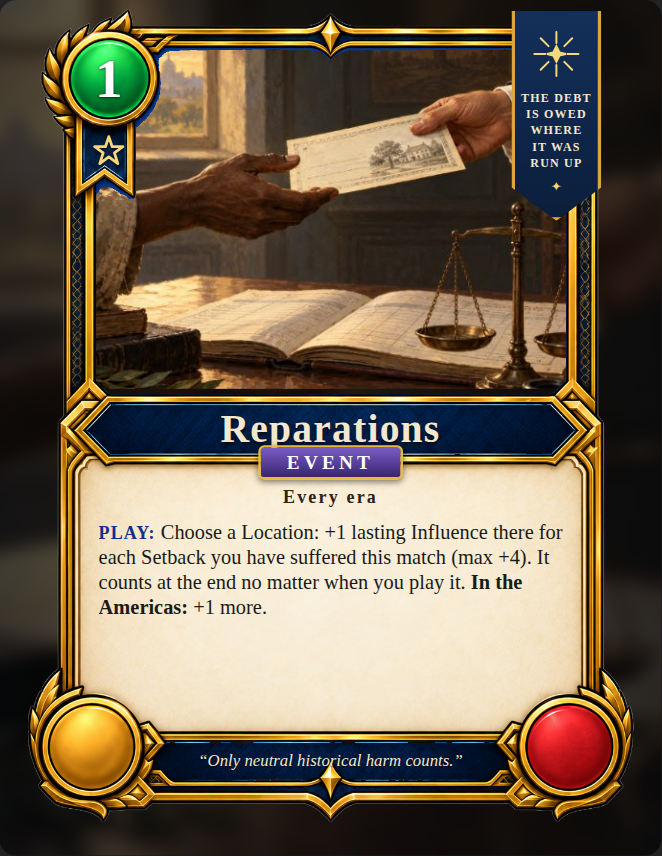
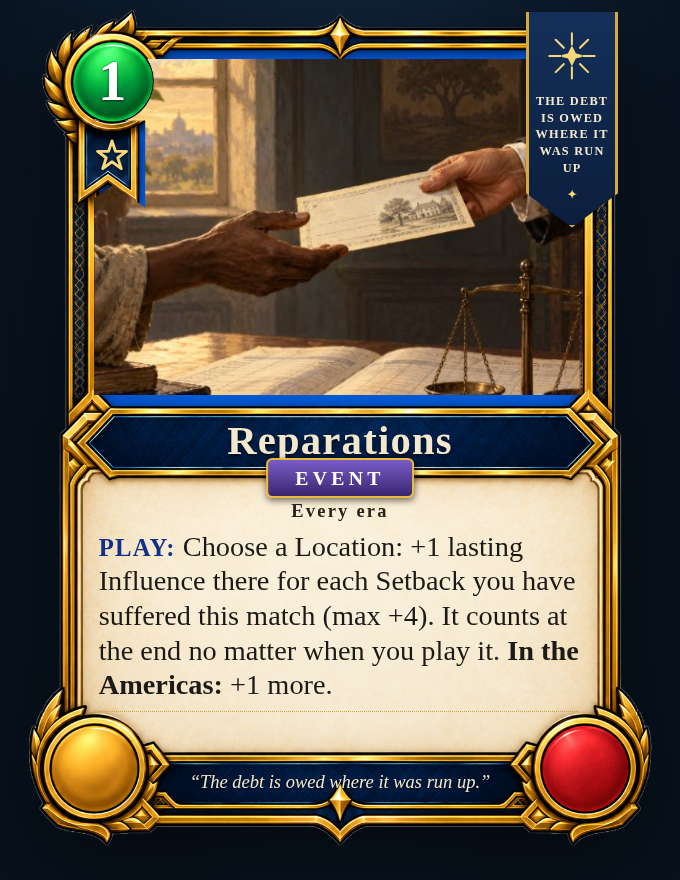
docs: card template sketch on the exact PNG, live cards with scrolling rules
The frame is the supplied PNG untouched (transparent outside, blue window
inside); the portrait sits over the window and the cost medallion and its
ribbon ride above the portrait as masked passes of the same PNG. The mock is
one live layout in cqw units with the rules at reading size, scrolling when
they run long. Renders and spec updated; the keyed frame is gone.

Claude-Session: https://claude.ai/code/session_01CdCWBBELLp3cWMWqqhgQtC

diff --git a/docs/card-template/mock.html b/docs/card-template/mock.html
@@ -1,80 +1,123 @@
-<!doctype html>
-<meta charset="utf-8">
+<title>Universal Card Template</title>
 <link rel="stylesheet" href="https://fonts.googleapis.com/css2?family=Cinzel:wght@600;700;800&family=Crimson+Pro:ital,wght@0,500;0,600;0,700;1,500&display=swap">
 <style>
-  body { margin: 0; background: #222; display: flex; gap: 40px; padding: 40px; font-family: 'Crimson Pro', Georgia, serif; }
-  /* The card is laid out at the template's native 1103 x 1426 and scaled for the screenshot. */
-  .card { position: relative; width: 1103px; height: 1426px; overflow: hidden; border-radius: 28px; background: #08131f; color: #1b1a17; }
-  .bleed { position: absolute; inset: -6%; background-size: cover; background-position: center 20%; filter: blur(14px) brightness(0.45) saturate(0.8); }
-  .bleed::after { content: ''; position: absolute; inset: 0; background: radial-gradient(ellipse at 50% 30%, rgba(8,19,31,0) 30%, rgba(8,19,31,0.75) 100%); }
-  .art { position: absolute; left: 140px; top: 82px; width: 818px; height: 566px; background-size: cover; background-position: center 18%; }
-  .frame { position: absolute; inset: 0; width: 1103px; height: 1426px; pointer-events: none; }
-  .num { position: absolute; font-family: 'Cinzel', Georgia, serif; font-weight: 800; color: #fff; text-align: center; transform: translate(-50%, -50%); text-shadow: 0 3px 4px rgba(0,0,0,0.55), 0 0 2px rgba(0,0,0,0.6); }
-  .cost { left: 182px; top: 130px; font-size: 92px; }
-  .inf { left: 152px; top: 1252px; font-size: 100px; }
-  .force { left: 945px; top: 1252px; font-size: 100px; }
-  .kind { position: absolute; left: 182px; top: 252px; transform: translate(-50%, -50%); width: 60px; height: 60px; }
-  .kind svg { width: 100%; height: 100%; fill: none; stroke: #f6d77a; stroke-width: 5; stroke-linejoin: round; stroke-linecap: round; filter: drop-shadow(0 2px 2px rgba(0,0,0,0.6)); }
-  .pennant { position: absolute; right: 100px; top: 18px; width: 150px; height: 350px; background: linear-gradient(180deg, #14305a, #0b1e3c); border: 6px solid #d8a83a; border-top: 0; clip-path: polygon(0 0, 100% 0, 100% 84%, 50% 100%, 0 84%); box-shadow: 0 6px 18px rgba(0,0,0,0.5); display: flex; flex-direction: column; align-items: center; justify-content: flex-start; padding: 24px 10px; box-sizing: border-box; }
-  .pennant .sun { width: 84px; height: 84px; margin: 6px 0 18px; }
-  .pennant .motto { font-family: 'Cinzel', Georgia, serif; font-weight: 700; font-size: 20px; line-height: 1.35; letter-spacing: 0.1em; color: #f3e8cf; text-align: center; }
-  .pennant .dia { color: #f6d77a; font-size: 22px; margin-top: 14px; }
-  .name { position: absolute; left: 150px; right: 150px; top: 676px; height: 77px; display: flex; align-items: center; justify-content: center; font-family: 'Cinzel', Georgia, serif; font-weight: 800; font-size: 66px; letter-spacing: 0.03em; color: #f3e8cf; text-shadow: 0 3px 6px rgba(0,0,0,0.7); white-space: nowrap; }
-  .name.long { font-size: 54px; }
-  .name.xlong { font-size: 44px; }
-  .tag { position: absolute; left: 50%; top: 742px; transform: translateX(-50%); padding: 6px 44px; background: linear-gradient(180deg, #2d63d6, #12308a); border: 4px solid #e9b93a; border-radius: 10px; font-family: 'Cinzel', Georgia, serif; font-weight: 700; font-size: 32px; letter-spacing: 0.22em; color: #fff; box-shadow: 0 4px 10px rgba(0,0,0,0.5); }
-  .era { position: absolute; left: 0; right: 0; top: 812px; text-align: center; font-family: 'Cinzel', Georgia, serif; font-weight: 700; font-size: 30px; letter-spacing: 0.12em; color: #2a2418; }
-  .rules { position: absolute; left: 165px; right: 160px; top: 866px; height: 350px; font-size: 34px; line-height: 1.24; color: #1b1a17; font-weight: 500; overflow: hidden; }
-  .rules .kw { font-family: 'Cinzel', Georgia, serif; font-weight: 800; font-size: 30px; letter-spacing: 0.06em; color: #12308a; }
-  .rules b { font-weight: 700; }
-  .rules .sep { text-align: center; color: #b58a1c; font-size: 26px; margin: 10px 0 8px; position: relative; }
-  .rules .sep::before, .rules .sep::after { content: ''; position: absolute; top: 55%; width: 42%; border-top: 2px solid #c9a53a; }
-  .rules .sep::before { left: 0; } .rules .sep::after { right: 0; }
-  .rules.fit { font-size: 30px; line-height: 1.2; } .rules.fit .kw { font-size: 26px; }
-  .quote { position: absolute; left: 270px; right: 270px; top: 1240px; height: 56px; display: flex; align-items: center; justify-content: center; text-align: center; font-style: italic; font-size: 28px; line-height: 1.15; color: #f3e8cf; text-shadow: 0 2px 3px rgba(0,0,0,0.7); }
-  .card.event .art { background-position: center; }
+  :root { --frame: url("card-template.png"); --bg: #08131f; --panel: #0f1f33; --line: #2a4466; --text: #f1e9d6; --muted: #a9b4c2; --gold: #e9b93a; --gold-2: #f6d77a; --parchment: #f3e8cf; --display: 'Cinzel', 'Trajan Pro', Georgia, serif; --font: 'Crimson Pro', Georgia, serif; }
+  body { margin: 0; background: var(--bg) radial-gradient(ellipse at 50% -10%, #142a44 0%, var(--bg) 60%); color: var(--text); font-family: var(--font); font-size: 18px; line-height: 1.45; padding-block: 28px 64px; padding-inline: clamp(16px, 4vw, 48px); }
+  .wrap { max-width: 1100px; margin: 0 auto; }
+  header { text-align: center; margin-bottom: 18px; }
+  .eyebrow { font-family: var(--display); font-weight: 600; font-size: 12px; letter-spacing: 0.22em; text-transform: uppercase; color: var(--gold); }
+  h1 { font-family: var(--display); font-weight: 800; font-size: clamp(24px, 4vw, 40px); letter-spacing: 0.04em; margin: 6px 0 8px; color: var(--parchment); text-wrap: balance; }
+  header p { max-width: 60ch; margin: 0 auto; color: var(--muted); }
+  .tabs { display: flex; justify-content: center; flex-wrap: wrap; gap: 10px; margin: 18px 0 22px; }
+  .tab { font-family: var(--display); font-weight: 700; font-size: 13px; letter-spacing: 0.14em; text-transform: uppercase; color: var(--parchment); background: var(--panel); border: 1.5px solid var(--line); padding: 10px 18px; cursor: pointer; min-height: 44px; }
+  .tab.on { background: linear-gradient(180deg, #f6d77a, #d7a422 60%, #b4851a); color: #1a1200; border-color: var(--gold-2); }
+  .tab:focus-visible { outline: 2px solid var(--gold-2); outline-offset: 2px; }
+  .stage { display: grid; place-items: center; }
+  .slide { width: min(100%, 680px); filter: drop-shadow(0 30px 50px rgba(0,0,0,0.6)); }
+  section.notes { margin-top: 44px; border-top: 1px solid var(--line); padding-top: 24px; display: grid; gap: 10px; max-width: 70ch; color: var(--muted); }
+  section.notes b { color: var(--parchment); font-weight: 600; }
+  h2 { font-family: var(--display); font-weight: 700; font-size: 16px; letter-spacing: 0.12em; text-transform: uppercase; color: var(--gold-2); margin: 0 0 4px; }
+
+  /* One card = the template's 1103 x 1426 box; every measurement is a percentage of the card's width (cqw), so the
+     same layout holds at hand size and at Codex size. The frame is the designer's PNG, untouched: the portrait sits
+     on top of it, clipped to the blue window. */
+  .card { position: relative; container-type: inline-size; width: 100%; aspect-ratio: 1103 / 1426; font-family: var(--font); color: #1b1a17; }
+  .card > * { position: absolute; }
+  .card .frame { inset: 0; width: 100%; height: 100%; z-index: 2; pointer-events: none; background: var(--frame) center / 100% 100% no-repeat; }
+  /* The cost medallion and its ribbon are painted on the frame over the window, so two more passes of the same PNG,
+     cut to just those shapes (a circle for the medallion, the ribbon's pennant outline), ride above the portrait. */
+  .card .frame-medal, .card .frame-ribbon { inset: 0; width: 100%; height: 100%; z-index: 4; pointer-events: none; background: var(--frame) center / 100% 100% no-repeat; }
+  .card .frame-medal { -webkit-mask: radial-gradient(circle at 16.50cqw 11.79cqw, #000 6.05cqw, transparent 6.15cqw); mask: radial-gradient(circle at 16.50cqw 11.79cqw, #000 6.05cqw, transparent 6.15cqw); }
+  .card .frame-ribbon { clip-path: polygon(11.85cqw 17.60cqw, 21.35cqw 17.60cqw, 21.35cqw 30.40cqw, 16.60cqw 27.10cqw, 11.85cqw 30.40cqw); }
+  .card .art { left: 13.78cqw; top: 8.52cqw; width: 71.99cqw; height: 49.50cqw; z-index: 3; background-size: cover; background-position: center 18%; }
+  .card .num { z-index: 5; font-family: var(--display); font-weight: 800; color: #fff; text-align: center; transform: translate(-50%, -50%); text-shadow: 0 0.27cqw 0.36cqw rgba(0,0,0,0.55), 0 0 0.18cqw rgba(0,0,0,0.6); line-height: 1; }
+  .card .cost { left: 16.50cqw; top: 11.79cqw; font-size: 8.34cqw; }
+  .card .inf { left: 13.78cqw; top: 113.51cqw; font-size: 9.07cqw; }
+  .card .force { left: 85.68cqw; top: 113.51cqw; font-size: 9.07cqw; }
+  .card .kindicon { z-index: 5; left: 16.50cqw; top: 22.85cqw; transform: translate(-50%, -50%); width: 5.44cqw; height: 5.44cqw; }
+  .card .kindicon svg { width: 100%; height: 100%; fill: none; stroke: #f6d77a; stroke-width: 5; stroke-linejoin: round; stroke-linecap: round; filter: drop-shadow(0 0.18cqw 0.18cqw rgba(0,0,0,0.6)); }
+  .card .pennant { z-index: 3; right: 9.07cqw; top: 1.63cqw; width: 13.60cqw; height: 31.73cqw; background: linear-gradient(180deg, #14305a, #0b1e3c); border: 0.54cqw solid #d8a83a; border-top: 0; clip-path: polygon(0 0, 100% 0, 100% 84%, 50% 100%, 0 84%); box-shadow: 0 0.54cqw 1.63cqw rgba(0,0,0,0.5); display: flex; flex-direction: column; align-items: center; padding: 2.18cqw 0.91cqw; box-sizing: border-box; }
+  .card .pennant .sun { width: 7.62cqw; height: 7.62cqw; margin: 0.54cqw 0 1.63cqw; }
+  .card .pennant .motto { font-family: var(--display); font-weight: 700; font-size: 1.81cqw; line-height: 1.35; letter-spacing: 0.1em; color: #f3e8cf; text-align: center; }
+  .card .pennant .dia { color: #f6d77a; font-size: 1.99cqw; margin-top: 1.27cqw; }
+  .card .name { z-index: 3; left: 13.60cqw; right: 13.60cqw; top: 61.29cqw; height: 6.98cqw; display: flex; align-items: center; justify-content: center; font-family: var(--display); font-weight: 800; font-size: 5.98cqw; letter-spacing: 0.03em; color: #f3e8cf; text-shadow: 0 0.27cqw 0.54cqw rgba(0,0,0,0.7); white-space: nowrap; }
+  .card .name.long { font-size: 4.90cqw; }
+  .card .name.xlong { font-size: 3.99cqw; }
+  .card .tag { z-index: 4; left: 50%; top: 67.27cqw; transform: translateX(-50%); padding: 0.54cqw 3.99cqw; background: linear-gradient(180deg, #2d63d6, #12308a); border: 0.36cqw solid #e9b93a; border-radius: 0.91cqw; font-family: var(--display); font-weight: 700; font-size: 2.90cqw; letter-spacing: 0.22em; color: #fff; box-shadow: 0 0.36cqw 0.91cqw rgba(0,0,0,0.5); white-space: nowrap; }
   .card.event .tag { background: linear-gradient(180deg, #7a5cc6, #3a2570); }
   .card.mythic .tag { background: linear-gradient(180deg, #c0392b, #6a1410); }
+  .card .era { z-index: 3; left: 0; right: 0; top: 73.07cqw; text-align: center; font-family: var(--display); font-weight: 700; font-size: 2.72cqw; letter-spacing: 0.12em; color: #2a2418; }
+  /* The rules read at Codex size and scroll when they run long, like the current big card. */
+  .card .rules { z-index: 3; left: 14.51cqw; right: 13.60cqw; top: 77.79cqw; height: 26.80cqw; padding-right: 1.27cqw; font-size: 4.17cqw; line-height: 1.22; font-weight: 500; overflow-y: auto; overscroll-behavior: contain; scrollbar-width: thin; scrollbar-color: #c9a53a transparent; }
+  .card .rules .kw { font-family: var(--display); font-weight: 800; font-size: 3.63cqw; letter-spacing: 0.05em; color: #12308a; }
+  .card .rules b { font-weight: 700; }
+  .card .rules .sep { text-align: center; color: #b58a1c; font-size: 2.54cqw; margin: 0.91cqw 0 0.73cqw; position: relative; }
+  .card .rules .sep::before, .card .rules .sep::after { content: ''; position: absolute; top: 55%; width: 42%; border-top: 0.18cqw solid #c9a53a; }
+  .card .rules .sep::before { left: 0; } .card .rules .sep::after { right: 0; }
+  .card .rules .blurb { margin-top: 1.27cqw; padding-top: 1.09cqw; border-top: 0.18cqw dotted #c9a53a; font-style: italic; color: #4a3f28; font-size: 3.63cqw; }
+  .card .quote { z-index: 3; left: 24.48cqw; right: 24.48cqw; top: 112.42cqw; height: 5.08cqw; display: flex; align-items: center; justify-content: center; text-align: center; font-style: italic; font-size: 2.72cqw; line-height: 1.12; color: #f3e8cf; text-shadow: 0 0.18cqw 0.27cqw rgba(0,0,0,0.7); }
+
 </style>
-<body></body>
+<div class="wrap">
+  <header>
+    <div class="eyebrow">Stand on Business · sketch, not in the game yet</div>
+    <h1>Universal Card Template</h1>
+    <p>Your PNG, untouched, as the frame. The portrait sits over the blue window; the rules are set at reading size and scroll when they run long.</p>
+  </header>
+  <div class="tabs" role="tablist"><button type="button" class="tab on" data-for="david_ruggles" id="tab-david_ruggles">David Ruggles</button><button type="button" class="tab" data-for="shango" id="tab-shango">Shango</button><button type="button" class="tab" data-for="reparations" id="tab-reparations">Reparations</button></div>
+  <div class="stage"><section class="slide" data-id="david_ruggles"><div class="card " data-id="david_ruggles">
+      <div class="art" style="background-image:url('../../public/art/characters/david_ruggles.jpg')"></div>
+      <div class="frame"></div>
+      <div class="frame-medal"></div>
+      <div class="frame-ribbon"></div>
+      <div class="num cost">3</div>
+      <div class="kindicon"><svg viewBox="0 0 64 64"><path d="M8 14c8-4 16-4 24 2 8-6 16-6 24-2v36c-8-4-16-4-24 2-8-6-16-6-24-2z"/><path d="M32 16v38"/></svg></div>
+      <div class="pennant"><svg class="sun" viewBox="0 0 64 64" fill="none" stroke="#f6d77a" stroke-width="2.5" stroke-linecap="round"><path d="M32 4v14M32 46v14M4 32h14M46 32h14M12 12l10 10M42 42l10 10M52 12L42 22M22 42 12 52"/><path d="M32 22l4 8 8 2-8 2-4 8-4-8-8-2 8-2z" fill="#f6d77a"/></svg><div class="motto">TRUTH ORGANIZES FREEDOM</div><div class="dia">✦</div></div>
+      <div class="name ">David Ruggles</div>
+      <div class="tag">VIGILANCE</div>
+      <div class="era">1810–1849</div>
+      <div class="rules"><div><span class="kw">REVEAL:</span> The <b>Slaveholders Directory:</b> an Informant at your Gates at this Location is found out and sent back to the hand of the player who planted it (discarded if that hand is full). With none here to name, he prints anyway: draw a card.</div><div class="sep">◆</div><div><span class="kw">ESTABLISHED:</span> The Committee of Vigilance: your Characters at this Location cannot be blocked from entering.</div><div class="blurb">Secretary of the New York Committee of Vigilance. He found out who was taking Black people off the streets and printed their names, two police officers and the city's Recorder included.</div></div>
+      <div class="quote">“The press is a weapon against slavery.”</div>
+      <div class="num inf">3</div><div class="num force">1</div>
+    </div></section><section class="slide" data-id="shango" hidden><div class="card mythic" data-id="shango">
+      <div class="art" style="background-image:url('../../public/art/characters/shango.jpg')"></div>
+      <div class="frame"></div>
+      <div class="frame-medal"></div>
+      <div class="frame-ribbon"></div>
+      <div class="num cost">6</div>
+      <div class="kindicon"><svg viewBox="0 0 64 64"><path d="M36 4 14 36h16l-4 24 24-34H34z"/></svg></div>
+      <div class="pennant"><svg class="sun" viewBox="0 0 64 64" fill="none" stroke="#f6d77a" stroke-width="2.5" stroke-linecap="round"><path d="M32 4v14M32 46v14M4 32h14M46 32h14M12 12l10 10M42 42l10 10M52 12L42 22M22 42 12 52"/><path d="M32 22l4 8 8 2-8 2-4 8-4-8-8-2 8-2z" fill="#f6d77a"/></svg><div class="motto">THUNDER KEEPS THE LAW</div><div class="dia">✦</div></div>
+      <div class="name ">Shango</div>
+      <div class="tag">MYTHIC</div>
+      <div class="era">Yoruba · Oyo</div>
+      <div class="rules"><div><span class="kw">REVEAL:</span> <b>Thunder:</b> CHALLENGE every opposing Gate Character here. Each with lower Force than Shango is displaced to a random other Location.</div><div class="sep">◆</div><div><span class="kw">ESTABLISHED:</span> Your Characters confront Threats here with +2 Force.</div><div class="blurb">Fourth king of Oyo and orisha of thunder and justice, whose double-headed axe and drum travelled to Cuba, Brazil and Trinidad and never fell silent.</div></div>
+      <div class="quote">“The axe and the drum never fell silent.”</div>
+      <div class="num inf">6</div><div class="num force">6</div>
+    </div></section><section class="slide" data-id="reparations" hidden><div class="card event" data-id="reparations">
+      <div class="art" style="background-image:url('../../public/art/events/reparations.jpg')"></div>
+      <div class="frame"></div>
+      <div class="frame-medal"></div>
+      <div class="frame-ribbon"></div>
+      <div class="num cost">1</div>
+      <div class="kindicon"><svg viewBox="0 0 64 64"><path d="M32 6l6 18h19l-15 11 6 19-16-12-16 12 6-19L7 24h19z"/></svg></div>
+      <div class="pennant"><svg class="sun" viewBox="0 0 64 64" fill="none" stroke="#f6d77a" stroke-width="2.5" stroke-linecap="round"><path d="M32 4v14M32 46v14M4 32h14M46 32h14M12 12l10 10M42 42l10 10M52 12L42 22M22 42 12 52"/><path d="M32 22l4 8 8 2-8 2-4 8-4-8-8-2 8-2z" fill="#f6d77a"/></svg><div class="motto">THE DEBT IS OWED WHERE IT WAS RUN UP</div><div class="dia">✦</div></div>
+      <div class="name ">Reparations</div>
+      <div class="tag">EVENT</div>
+      <div class="era">Every era</div>
+      <div class="rules"><div><span class="kw">PLAY:</span> Choose a Location: +1 lasting Influence there for each Setback you have suffered this match (max +4). It counts at the end no matter when you play it. <b>In the Americas:</b> +1 more.</div><div class="blurb">Only neutral historical harm counts. What the opponent did to you is not the same thing. The debt is owed where it was run up.</div></div>
+      <div class="quote">“The debt is owed where it was run up.”</div>
+      
+    </div></section></div>
+  <section class="notes">
+    <h2>Open questions</h2>
+    <div><b>Events.</b> No Influence or Force, so the bottom medallions sit empty. Either a second frame without them, or they carry Event marks (a Location glyph, an hourglass for “counts at the end”).</div>
+    <div><b>Two copy fields.</b> A motto for the pennant and a quotation for the strip. Stand-ins here, borrowed from each blurb.</div>
+    <div><b>The pennant.</b> Drawn in CSS here; it could be painted into the frame instead.</div>
+  </section>
+</div>
 <script>
-const ART = '../../public/art/';
-const CARDS = [
-  { id: 'david_ruggles', kind: 'characters', name: 'David Ruggles', tag: 'Vigilance', era: '1810–1849', cost: 3, inf: 3, force: 1, icon: 'book', motto: 'Truth organizes freedom',
-    rules: [['Reveal', 'The <b>Slaveholders Directory:</b> an Informant at your Gates at this Location is found out and sent back to the hand of the player who planted it (discarded if that hand is full). With none here to name, he prints anyway: draw a card.'], ['Established', 'The Committee of Vigilance: your Characters at this Location cannot be blocked from entering.']],
-    quote: '“The press is a weapon against slavery.”' },
-  { id: 'shango', kind: 'characters', cls: 'mythic', name: 'Shango', tag: 'Mythic', era: 'Yoruba · Oyo', cost: 6, inf: 6, force: 6, icon: 'bolt', motto: 'Thunder keeps the law',
-    rules: [['Reveal', '<b>Thunder:</b> CHALLENGE every opposing Gate Character here. Each with lower Force than Shango is displaced to a random other Location.'], ['Established', 'Your Characters confront Threats here with +2 Force.']],
-    quote: '“The axe and the drum never fell silent.”' },
-  { id: 'reparations', kind: 'events', cls: 'event', name: 'Reparations', tag: 'Event', era: 'Every era', cost: 1, inf: null, force: null, icon: 'star', motto: 'The debt is owed where it was run up',
-    rules: [['Play', 'Choose a Location: +1 lasting Influence there for each Setback you have suffered this match (max +4). It counts at the end no matter when you play it. <b>In the Americas:</b> +1 more.']],
-    quote: '“Only neutral historical harm counts.”' },
-];
-const ICONS = {
-  book: '<svg viewBox="0 0 64 64"><path d="M8 14c8-4 16-4 24 2 8-6 16-6 24-2v36c-8-4-16-4-24 2-8-6-16-6-24-2z"/><path d="M32 16v38"/></svg>',
-  bolt: '<svg viewBox="0 0 64 64"><path d="M36 4 14 36h16l-4 24 24-34H34z"/></svg>',
-  star: '<svg viewBox="0 0 64 64"><path d="M32 6l6 18h19l-15 11 6 19-16-12-16 12 6-19L7 24h19z"/></svg>',
-};
-const SUN = '<svg class="sun" viewBox="0 0 64 64" fill="none" stroke="#f6d77a" stroke-width="2.5" stroke-linecap="round"><path d="M32 4v14M32 46v14M4 32h14M46 32h14M12 12l10 10M42 42l10 10M52 12L42 22M22 42 12 52"/><path d="M32 22l4 8 8 2-8 2-4 8-4-8-8-2 8-2z" fill="#f6d77a"/></svg>';
-for (const c of CARDS) {
-  const el = document.createElement('div');
-  el.className = `card ${c.cls ?? ''}`; el.dataset.id = c.id;
-  const src = `${ART}${c.kind}/${c.id}.jpg`;
-  const nameCls = c.name.length > 15 ? (c.name.length > 22 ? 'xlong' : 'long') : '';
-  el.innerHTML = `
-    <div class="bleed" style="background-image:url('${src}')"></div>
-    <div class="art" style="background-image:url('${src}')"></div>
-    <img class="frame" src="card-frame.png">
-    <div class="num cost">${c.cost}</div>
-    <div class="kind">${ICONS[c.icon]}</div>
-    <div class="pennant">${SUN}<div class="motto">${c.motto.toUpperCase()}</div><div class="dia">✦</div></div>
-    <div class="name ${nameCls}">${c.name}</div>
-    <div class="tag">${c.tag.toUpperCase()}</div>
-    <div class="era">${c.era}</div>
-    <div class="rules">${c.rules.map(([k, t]) => `<div><span class="kw">${k.toUpperCase()}:</span> ${t}</div>`).join('<div class="sep">◆</div>')}</div>
-    <div class="quote">${c.quote}</div>
-    ${c.inf !== null ? `<div class="num inf">${c.inf}</div><div class="num force">${c.force}</div>` : ''}`;
-  document.body.appendChild(el);
-  const r = el.querySelector('.rules'); if (r.scrollHeight > r.clientHeight) r.classList.add('fit');
-}
+  for (const t of document.querySelectorAll('.tab')) t.addEventListener('click', () => {
+    for (const x of document.querySelectorAll('.tab')) x.classList.toggle('on', x === t);
+    for (const s of document.querySelectorAll('.slide')) s.hidden = s.dataset.id !== t.dataset.for;
+  });
 </script>

diff --git a/docs/card-template.md b/docs/card-template.md
@@ -4,17 +4,19 @@ The frame the designer supplied (`docs/card-template/card-template.png`, 1103 ×
 for every kind of card: Characters, Mythics, Artists, Informants, Events and Curses. This note records how it is
 cut up, what goes where, and how it would be built, so the eventual `CardFace` v2 (and the Unity prefab) follow the
 same measurements. `docs/card-template/mock.html` is the working sketch: open it in a browser (it reads the art from
-`public/art`) and it lays out three cards on the frame; `mock-*.png` are its renders.
+`public/art`) and it lays out three cards on the frame, one at a time, with the rules scrolling; `mock-*.png` are
+its renders. Every measurement is in `cqw` (percent of the card's width), so the one layout holds at any size.
 
 ## The layers, bottom to top
 
-1. **Bleed.** The portrait again, blurred and darkened, covering the whole card. It is what shows through the gaps
-   between the frame and the card edge, so the painting seems to run under the frame the way the target render does.
-2. **Art window.** The portrait, cover-fitted to the window (face at about 18% from the top).
-3. **Frame.** `card-frame.png`: the template with its blue window keyed to transparent (the alpha was cut in
-   Chromium by colour; the gold bevel around the window survives). Everything above this is text or small marks.
-4. **Marks and text.** Numbers in the medallions, the kind icon in the pennant under the cost, the motto pennant at
-   the top right, the name, the tag pill, the era, the rules, the quote.
+1. **Frame.** `card-template.png`, the designer's PNG exactly as supplied: transparent outside the frame, solid blue
+   inside the art window. It is never edited.
+2. **Art.** The portrait, cover-fitted to the window rectangle and layered *over* the frame's blue (face at about
+   18% from the top). The window's gold bevel stays visible around it.
+3. **Medallion and ribbon.** The cost medallion and the pennant under it are painted on the frame across the window,
+   so two more passes of the same PNG, cut to just those shapes (a circle, the pennant outline), sit above the art.
+4. **Marks and text.** Numbers in the medallions, the kind icon in the ribbon, the motto pennant at the top right,
+   the name, the tag pill, the era, the rules (which scroll when they run long, like the current big card), the quote.
 
 ## Slot geometry (px on the 1103 × 1426 template; percentages for CSS or Unity anchors)
 
@@ -27,7 +29,7 @@ same measurements. `docs/card-template/mock.html` is the working sketch: open it
 | Name banner (navy) | x 150–950, y 676–753 | 13.6%, 47.4%, 72.5% × 5.4% | the name, Cinzel 800, 66px; 54px over 15 characters, 44px over 22 |
 | Tag pill | centred, y 742 (overlapping the banner's bottom edge) | 50%, 52% | one word: the most specific tag, or Mythic / Artist / Informant / Event / Curse |
 | Era line | y 812, centred | 57% | dates or place, Cinzel 700, 30px, ink |
-| Rules box (parchment) | x 165–943, y 866–1216 | 15%, 60.7%, 70.5% × 24.5% | Crimson Pro 500, 34px, line 1.24; steps to 30px when it overflows; keyword labels in Cinzel 800 navy; a diamond rule between abilities |
+| Rules box (parchment) | x 160–953, y 858–1154 | 14.5%, 60.2%, 71.9% × 20.8% | Crimson Pro 500, 46px, line 1.22, scrolling when it overflows (like the big card today); keyword labels in Cinzel 800 navy; a diamond rule between abilities; the blurb in italics under a dotted rule |
 | Quote strip (navy, bottom) | x 270–833, y 1240–1296 | 24.5%, 87%, 51% × 3.9% | a short quotation, Crimson Pro italic, 28px, parchment |
 | Influence medallion (gold) | centre (152, 1252), r ≈ 72 | 13.8%, 87.8% | Influence, Cinzel 800, 100px |
 | Force medallion (red) | centre (945, 1252), r ≈ 72 | 85.7%, 87.8% | Force, Cinzel 800, 100px |
@@ -64,8 +66,8 @@ All copy rules apply: real words from or about the person, no editorializing, so
   ~130px wide) and at Codex size (~600px). At hand size the rules text is unreadable at any font, so the small card
   shows the art, the name banner, the pill and the three numbers, and hides the rules, era, quote and pennant; the
   Codex shows everything. Numbers use `font-size` in `cqw` units (container query width) so they scale with the card.
-- **Assets**: `card-frame.png` at 1103 × 1426 (about 1.6 MB as PNG; ship it as WebP with alpha, ~250 KB, plus a
-  400px version for the hand). The full-bleed blur is computed from the portrait, not an asset.
+- **Assets**: the supplied `card-template.png` at 1103 × 1426 (1.7 MB as PNG; ship it as WebP with alpha, ~250 KB,
+  plus a 400px version for the hand).
 - **Unity**: a prefab with the same four layers: a full-bleed `SpriteRenderer` (portrait, blurred by a material),
   the portrait in a `SpriteMask` for the window, the frame sprite, and TextMeshPro fields anchored at the table's
   percentages in a 1103 × 1426 rect. The percentages are the contract between the two builds.
